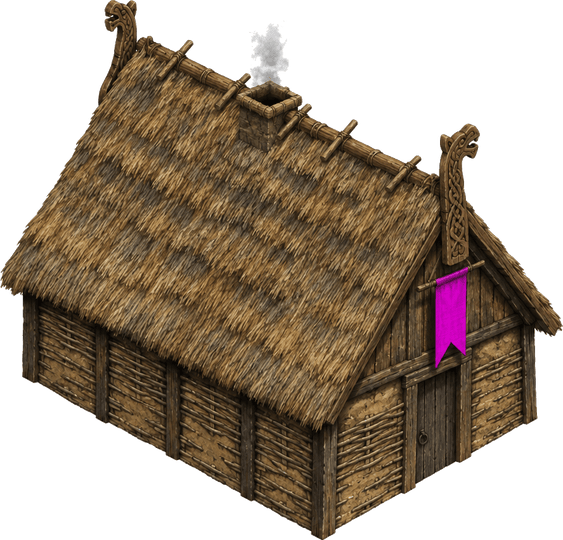
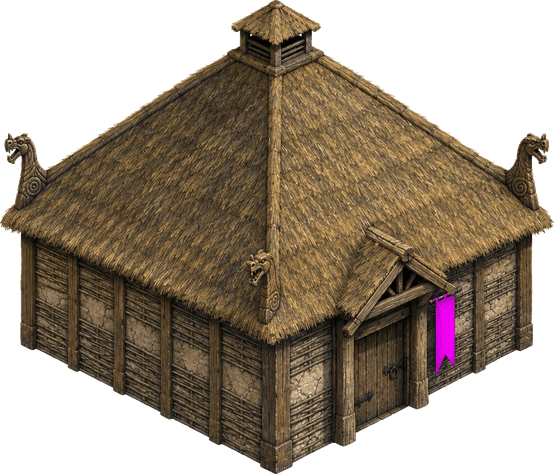
Square-plan Dark Age Town Center without painted smoke; animated chimney smoke drawn above the fog
Claude-Session: https://claude.ai/code/session_01Kh61o643ycZGrcqCLU97Et

diff --git a/js/render.js b/js/render.js
@@ -380,6 +380,7 @@
       ctx.drawImage(fogCv, 0, 0, N, N);
       ctx.setTransform(DPR, 0, 0, DPR, 0, 0);
     }
+    drawChimneys();
 
     // placement ghost
     if (G.ghost && G.ghost.tx != null) drawGhost(z);
@@ -400,6 +401,38 @@
     ctx.fillRect(x - w / 2, y, w * f, 3);
   }
 
+  // the highest point of a sprite's roof (its smoke louvre or chimney), relative to its anchor, found once
+  function roofTop(sp) {
+    if (sp._top) return sp._top;
+    let top = { x: 0, y: -sp.ay * 0.9 };
+    try {
+      const cv = sp.cv, w = cv.width, h = cv.height, d = cv.getContext('2d').getImageData(0, 0, w, h).data;
+      outer: for (let y = 0; y < h; y++) {
+        let sx = 0, n = 0;
+        for (let x = 0; x < w; x++) if (d[(y * w + x) * 4 + 3] > 200) { sx += x; n++; }
+        if (n >= 3) { top = { x: sx / n * sp.w / w - sp.ax, y: (y + h * 0.02) * sp.h / h - sp.ay }; break outer; }
+      }
+    } catch (err) { /* canvas not readable: fall back to a point above the centre */ }
+    return (sp._top = top);
+  }
+  // chimney smoke: soft puffs rising and drifting off the top of the roof, thicker while training.
+  // Drawn after the fog, so unexplored sky behind a roof can't swallow it.
+  let chimneys = [];
+  function drawChimneys() {
+    for (const [e, g, z, sp] of chimneys) {
+        const tp = roofTop(sp), busy = e.queue && e.queue.length;
+        const cx = g.x + tp.x * z, cy = g.y + tp.y * z, n = busy ? 6 : 4;
+        for (let i = 0; i < n; i++) {
+          const t = (G.time * (busy ? 0.32 : 0.22) + i / n + (e.id % 7) * 0.13) % 1;
+          const px = cx + (Math.sin(t * 5 + i * 1.7 + e.id) * 3 + t * 22) * z, py = cy - (4 + t * 60) * z;
+          const r = (5 + t * 18) * z, a = Math.sin(Math.PI * Math.min(1, t * 1.2)) * (busy ? 0.75 : 0.6);
+          const grd = ctx.createRadialGradient(px, py, 0, px, py, r);
+          grd.addColorStop(0, `rgba(232,228,220,${a.toFixed(3)})`); grd.addColorStop(0.55, `rgba(205,200,192,${(a * 0.55).toFixed(3)})`); grd.addColorStop(1, 'rgba(200,196,188,0)');
+          ctx.fillStyle = grd; ctx.beginPath(); ctx.arc(px, py, r, 0, 7); ctx.fill();
+        }
+    }
+    chimneys = [];
+  }
   function drawSprite(sp, x, y, z) {
     ctx.drawImage(sp.cv, x - sp.ax * z, y - sp.ay * z, sp.w * z, sp.h * z);
   }
@@ -562,12 +595,7 @@
         for (let k = 0; k < 4; k++) { ctx.rotate(Math.PI / 2); ctx.beginPath(); ctx.moveTo(0, 0); ctx.lineTo(0, -22 * z); ctx.stroke(); ctx.fillRect(1 * z, -22 * z, 6 * z, 16 * z); }
         ctx.restore();
       }
-      // smoke from town center chimney when training
-      if (e.queue && e.queue.length && e.built) {
-        const k = (G.time * 0.8) % 1;
-        ctx.fillStyle = `rgba(200,200,200,${0.4 * (1 - k)})`;
-        ctx.beginPath(); ctx.arc(g.x + 20 * z, g.y - (e.size * 30 + k * 30) * z, (4 + k * 6) * z, 0, 7); ctx.fill();
-      }
+      if (e.type === 'towncenter' && e.built && sp && sp.cv && !G.gfxLow) chimneys.push([e, g, z, sp]);
       const top = g.y - (sp.art ? sp.ay + 6 : e.size * 32 + 30) * z;
       if (selected || e.hp < e.maxHp * 0.999 || !e.built || (G.hpAlways && e.type !== 'farm')) {
         hpBar(g.x, top, 20 + e.size * 14, Math.max(0, e.hp / e.maxHp), own);
